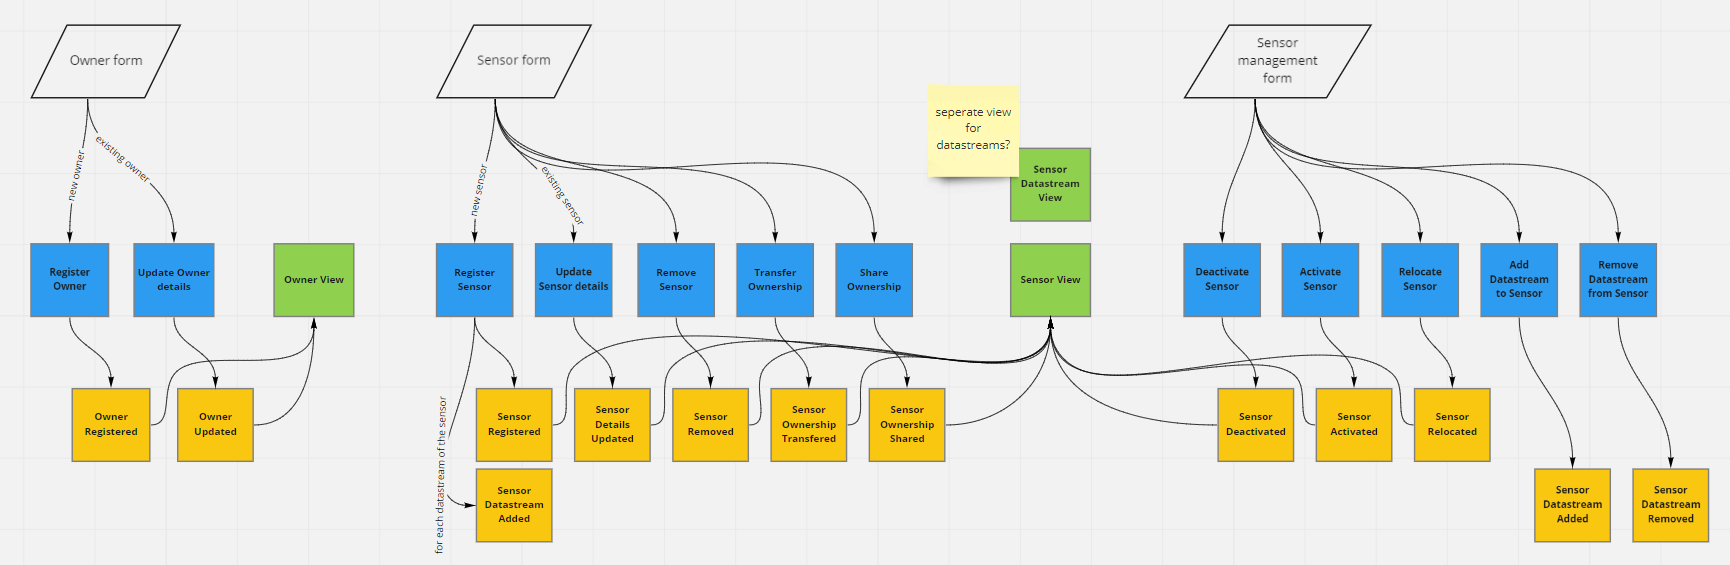
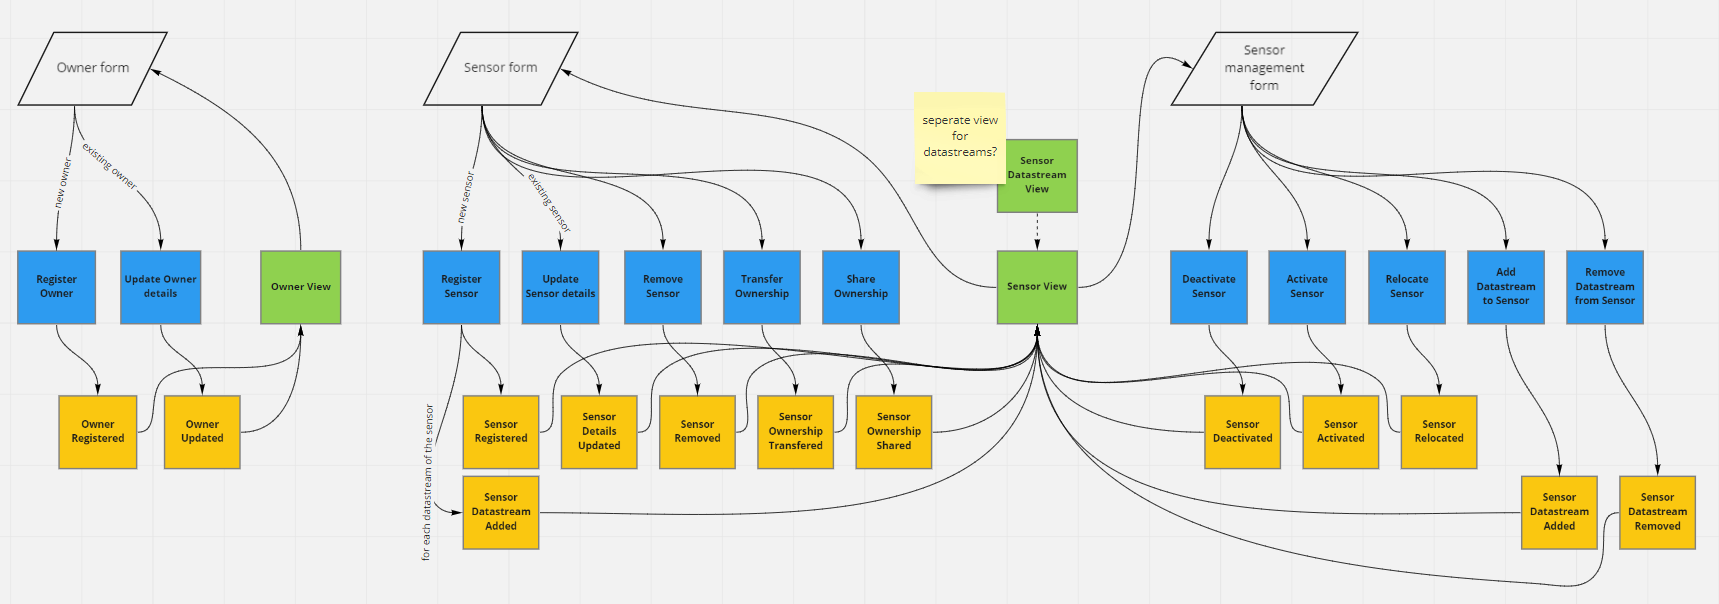
connected views to forms

diff --git a/docs/Model.md b/docs/Model.md
@@ -30,7 +30,7 @@ There are differences between the events in the Registry (_'Beheer van Sensoren'
 | public and private data | public data _only_ (and keys of private data) |
 | -                       | extra fields: `NodeID`                        |
 
-The fields in both events are the same (for a start and maintained as far as possible). 
+The fields in both events are the same (for a start and maintained as such as far as possible). 
 At this stage there's no code to point to yet, so events are only documented for now:
 
 **Owner aggregate**
